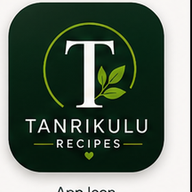
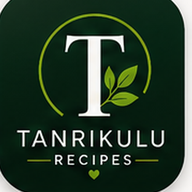
Add files via upload

diff --git a/app.js b/app.js
@@ -11,7 +11,7 @@ function login(e){e.preventDefault();if($('loginUsername').value.trim()!==LOGIN_
 function logout(){sessionStorage.removeItem('tanrikulu-recipes-login');location.reload()}
 async function initAfterLogin(){try{await loadData();setStatus(true,'Family database connected')}catch(e){console.error(e);setStatus(false,'Database upgrade needed');toast('Run upgrade.sql in Supabase if needed')}}
 async function loadData(){const [c,r,f]=await Promise.all([db.from('categories').select('*').order('sort_order'),db.from('recipes').select('*').order('recipe_number'),db.from('favorites').select('*')]);if(c.error)throw c.error;if(r.error)throw r.error;if(f.error)throw f.error;categories=c.data;recipes=r.data;favorites=f.data;render()}
-function bind(){$('loginForm').onsubmit=login;$('logoutBtn').onclick=logout;$('newRecipeBtn').onclick=()=>openRecipeModal();$('addCategoryBtn').onclick=()=>$('categoryDialog').showModal();$('settingsBtn').onclick=()=>$('settingsDialog').showModal();$('randomBtn').onclick=randomRecipe;$('menuBtn').onclick=()=>$('sidebar').classList.toggle('open');$('searchInput').oninput=renderRecipes;$('recipeForm').onsubmit=saveRecipe;$('categoryForm').onsubmit=saveCategory;$('deleteRecipeBtn').onclick=deleteRecipe;$('deleteRecipeViewBtn').onclick=deleteRecipeFromView;$('editRecipeBtn').onclick=()=>{$('viewDialog').close();openRecipeModal(currentRecipe)};$('favoriteBtn').onclick=addFavorite;$('parsePasteBtn').onclick=parsePastedRecipe;$('aiImportBtn').onclick=aiImport;document.querySelectorAll('[data-close]').forEach(b=>b.onclick=()=>$(b.dataset.close).close())}
+function bind(){$('loginForm').onsubmit=login;$('logoutBtn').onclick=logout;$('newRecipeBtn').onclick=()=>openRecipeModal();$('addCategoryBtn').onclick=()=>$('categoryDialog').showModal();$('settingsBtn').onclick=()=>$('settingsDialog').showModal();$('randomBtn').onclick=randomRecipe;$('menuBtn').onclick=(e)=>{e.stopPropagation();$('sidebar').classList.toggle('open')};document.addEventListener('click',e=>{if($('sidebar').classList.contains('open')&&!$('sidebar').contains(e.target)&&!$('menuBtn').contains(e.target))$('sidebar').classList.remove('open')});$('searchInput').oninput=renderRecipes;$('recipeForm').onsubmit=saveRecipe;$('categoryForm').onsubmit=saveCategory;$('deleteRecipeBtn').onclick=deleteRecipe;$('deleteRecipeViewBtn').onclick=deleteRecipeFromView;$('editRecipeBtn').onclick=()=>{$('viewDialog').close();openRecipeModal(currentRecipe)};$('favoriteBtn').onclick=addFavorite;$('parsePasteBtn').onclick=parsePastedRecipe;$('aiImportBtn').onclick=aiImport;document.querySelectorAll('[data-close]').forEach(b=>b.onclick=()=>$(b.dataset.close).close())}
 function render(){renderCategories();$('recipeCategory').innerHTML=categories.map(c=>`<option value="${c.id}">${esc(c.name)}</option>`).join('');renderRecipes()}
 function renderCategories(){const list=$('categoryList');list.innerHTML=`<div class="category-item ${activeCategory==='all'?'active':''}" data-id="all"><span>⌂</span><span>All recipes</span><span class="count">${recipes.length}</span></div>`+categories.map(c=>`<div class="category-item ${activeCategory===String(c.id)?'active':''}" data-id="${c.id}"><span>${icons[c.name]||'•'}</span><span>${esc(c.name)}</span><span class="count">${recipes.filter(r=>String(r.category_id)===String(c.id)).length}</span></div>`).join('');list.querySelectorAll('.category-item').forEach(el=>el.onclick=()=>{activeCategory=el.dataset.id;$('sidebar').classList.remove('open');render()})}
 function renderRecipes(){const q=$('searchInput').value.toLowerCase().trim();let shown=recipes.filter(r=>(activeCategory==='all'||String(r.category_id)===activeCategory)&&(!q||[r.name,r.ingredients,r.notes].join(' ').toLowerCase().includes(q)));const cat=categories.find(c=>String(c.id)===activeCategory);$('pageTitle').textContent=cat?cat.name:'All Recipes';$('pageSubtitle').textContent=cat?`Browse the family’s ${cat.name.toLowerCase()} recipes.`:'A shared collection of family favourites.';$('recipeCount').textContent=shown.length;$('recipeGrid').innerHTML=shown.map(r=>{const c=categories.find(x=>String(x.id)===String(r.category_id)),fc=favorites.filter(f=>String(f.recipe_id)===String(r.id)).length;return `<article class="recipe-card" data-id="${r.id}">${r.photo_url?`<img class="photo-thumb" src="${esc(r.photo_url)}" alt="">`:''}<div class="card-top"><span class="number">#${String(r.recipe_number||0).padStart(3,'0')}</span><span class="tag">${esc(c?.name||'Recipe')}</span></div><h3>${esc(r.name)}</h3><div class="card-meta">${r.total_time?`<span class="tag time-tag">⏱ ${esc(r.total_time)}</span>`:''}${r.servings?`<span>Serves ${esc(r.servings)}</span>`:''}${fc?`<span>❤ ${fc}</span>`:''}</div></article>`}).join('');$('emptyState').classList.toggle('hidden',shown.length>0);document.querySelectorAll('.recipe-card').forEach(el=>el.onclick=()=>viewRecipe(recipes.find(r=>String(r.id)===el.dataset.id)))}

diff --git a/styles.css b/styles.css
@@ -15,3 +15,19 @@ body{background:linear-gradient(180deg,#faf8f2 0,#f3f0e8 100%)}
 /* V4.1 refinements */
 .category-item{font-size:17px;padding:13px 12px;gap:13px;font-weight:650}.category-item>span:first-child{font-size:22px;min-width:26px;text-align:center}.category-item .count{font-size:13px}.login-screen{background-position:center top}.login-card.login-overlay{margin-bottom:0}.login-button{margin-top:12px;height:56px;font-size:17px}
 @media(max-width:760px){.category-item{font-size:18px;padding:14px 12px}.category-item>span:first-child{font-size:24px}.login-screen{background-position:center top}}
+
+/* V4.2 iPhone navigation refinements */
+@media(max-width:760px){
+  .sidebar{width:min(82vw,310px);height:100dvh;padding:16px 16px 12px;overflow:hidden}
+  .brand{margin-bottom:12px}
+  .brand-mark{width:40px;height:40px}
+  .brand h1{font-size:16px}
+  .brand p{font-size:9px}
+  .full{margin-bottom:12px;padding:9px 12px}
+  .side-title{font-size:10px;padding:0 7px 5px}
+  .category-list{gap:1px;overflow:hidden;flex:1;min-height:0}
+  .category-item{font-size:15px;line-height:1.1;padding:7px 9px;gap:9px;border-radius:8px;min-height:0}
+  .category-item>span:first-child{font-size:19px;min-width:22px}
+  .category-item .count{font-size:11px}
+  .sidebar-footer{padding-top:9px;font-size:9px;flex-wrap:wrap;gap:5px}
+}

diff --git a/README.md b/README.md
@@ -1,13 +1,9 @@
-# Tanrikulu Recipes
+# Tanrikulu Recipes V4.2
 
-Private family recipe collection built for GitHub Pages with Supabase as the shared database.
+GitHub Pages family recipe app connected to Supabase.
 
-## V4
-- Manrope typography
-- Full-image healthy-food login screen
-- Custom iPhone home-screen icon
-- Rich photographic home hero
-- Larger category navigation
-- Recipe photos, permanent recipe numbers, family favourites and custom categories
-
-The family access credentials are intentionally not documented in this public README.
+V4.2 refinements:
+- cleaner full-bleed iPhone Home Screen icon
+- tap outside the Categories drawer to close it
+- compact iPhone category typography/spacing so the full category list fits without scrolling on iPhone Max
+- recipe deletion with confirmation
